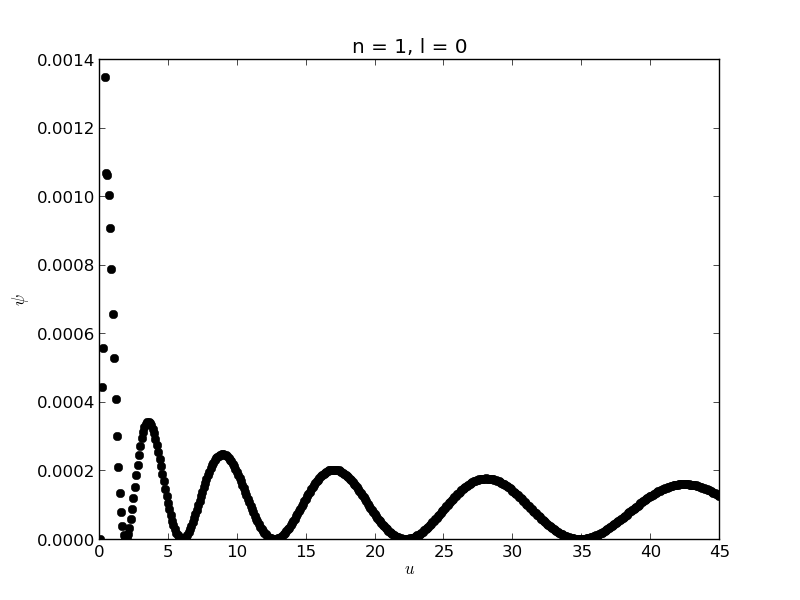
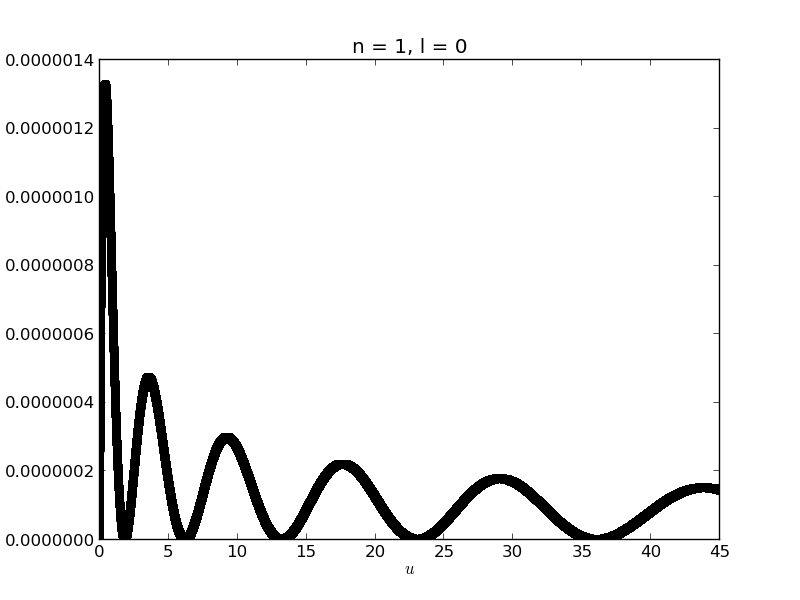
H

diff --git a/Atomica.py b/Atomica.py
@@ -23,14 +23,14 @@ def y2_prime(u,y1,y2,E,l):
 
 a = 0.0
 b = 45.0
-h = 0.1
+h = 0.0001
 
 n_points = int((b-a)/h)
 u = [a+i*h for i in range(1,n_points+1)]
 
 for n in range(1,4):
      #E = -1.0/float(n**2)
-     E= -1.0/100.0
+     E= -1.0/100
      L = [l*(l+1) for l in range(n)]
      for l in range(len(L)):
           print 'solving for: n = '+str(n)+', l = '+str(l)
@@ -62,7 +62,7 @@ for n in range(1,4):
                y2.append(h*a2+y2[i-1])
 	       y3.append((y1[i-1]*y1[i-1]*4*math.pi*u[i-1]))
 	       integrate+=y3[i-1]*u[i-1]
-          print integrate
+          print 'Integrate: '+ str(integrate)
           for i in range(1,n_points):
 
 	       y4.append((y3[i-1])/integrate)
@@ -73,8 +73,8 @@ for n in range(1,4):
 	  y5.remove(max(y5)) 
  	  
           
-#	  print 'Max: '+ str(max(y5)) + ' en pos ' + str(u2[y5.index(max(y5))])
-
+	  print 'Max: '+ str(max(y5)) + ' en pos ' + str(u2[y5.index(max(y5))])
+	  print 'Valor esperado: ' + str(sum(y6))
           pylab.plot(u , y4, 'ko')
          # pylab.xlim([0,b])
           pylab.xlabel('$u$')
@@ -83,7 +83,7 @@ for n in range(1,4):
           pylab.savefig(str(n)+','+str(l)+'.png')
           pylab.close()
 
-print sum(y6)
+
 
 
 
